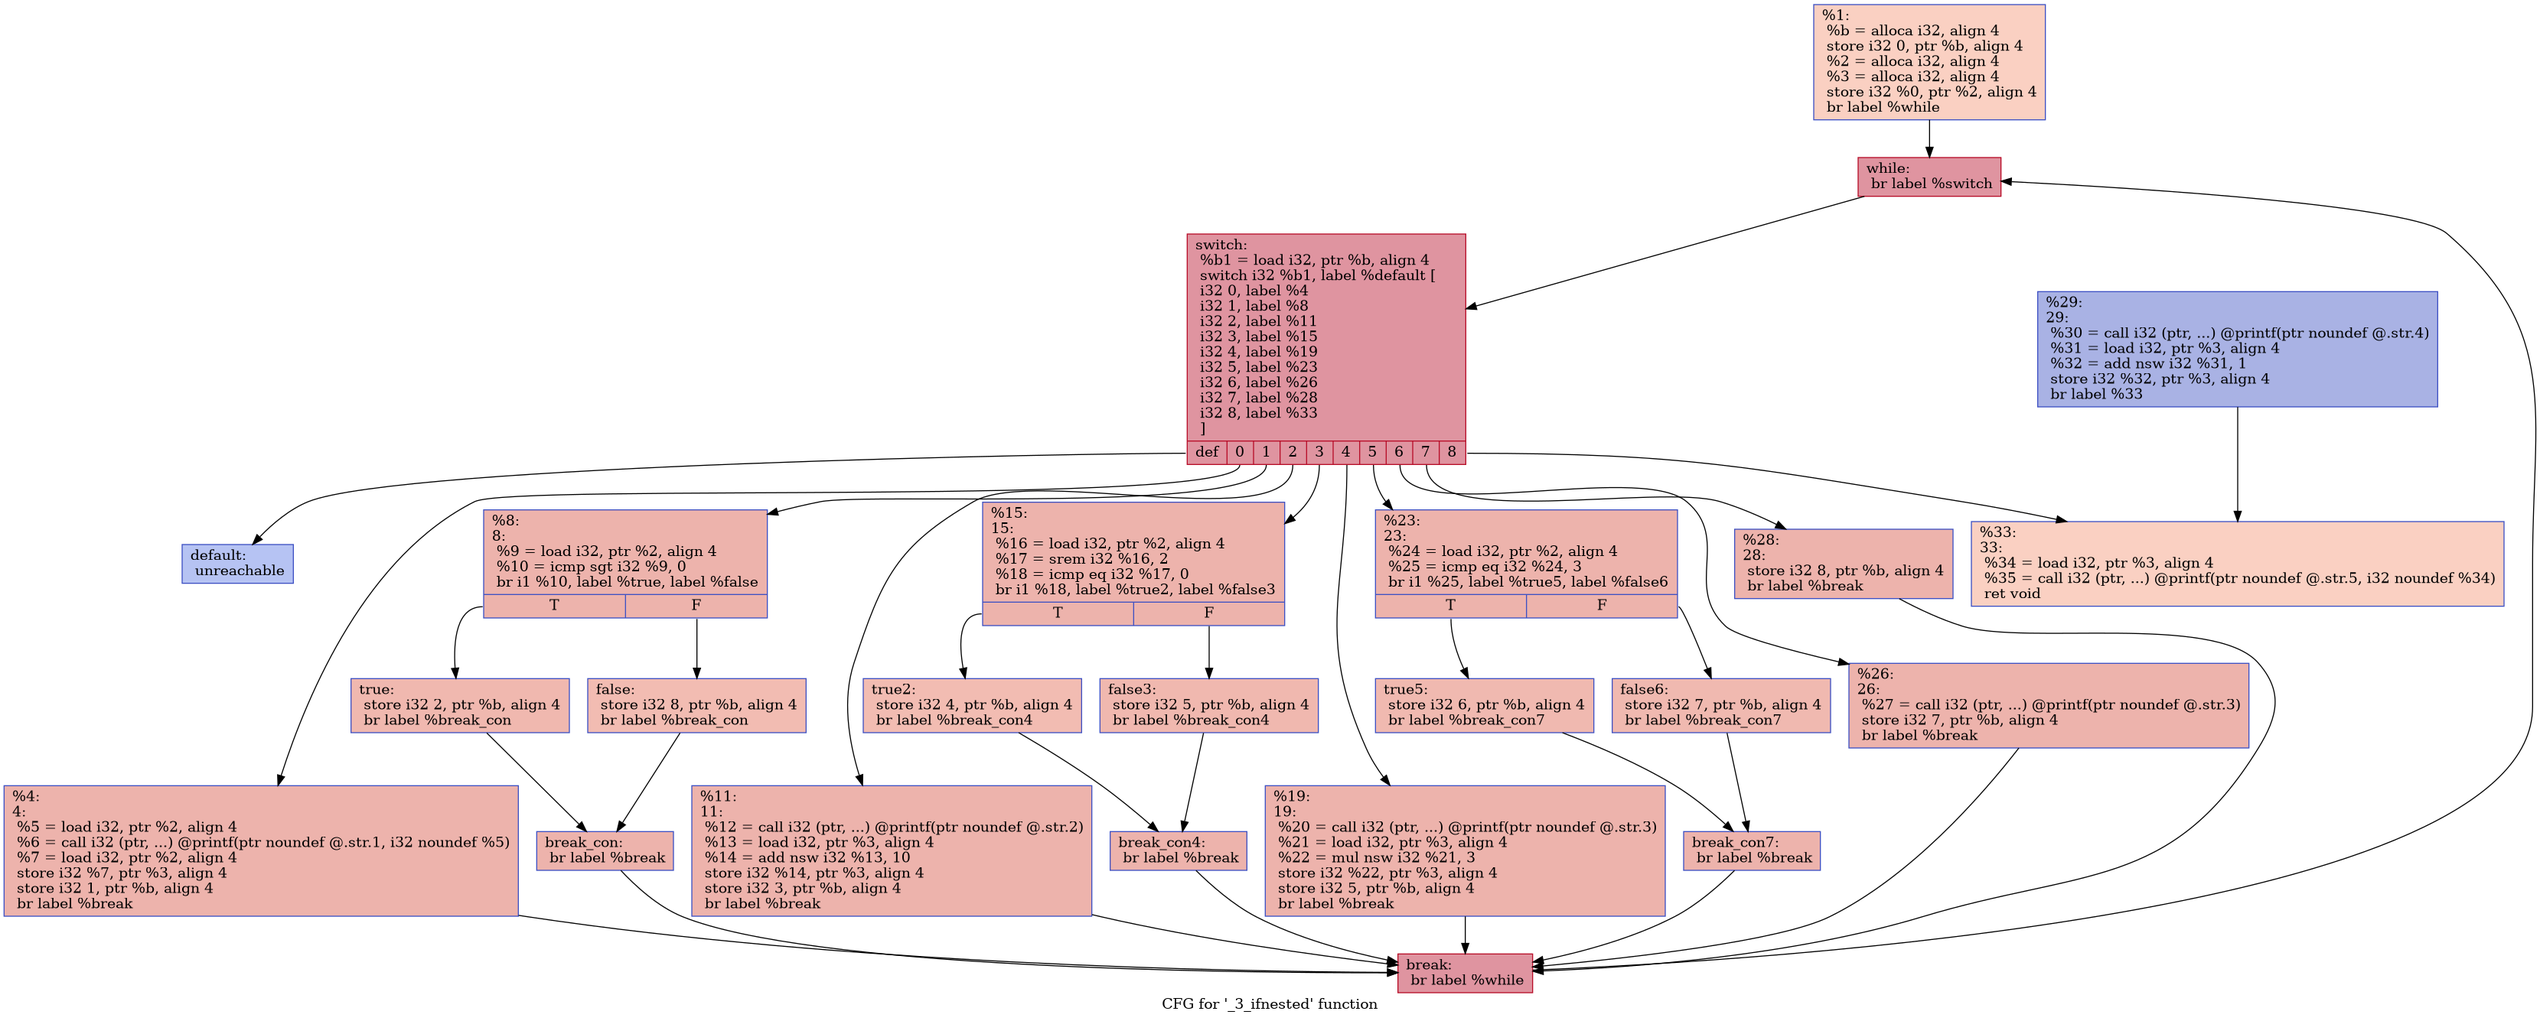
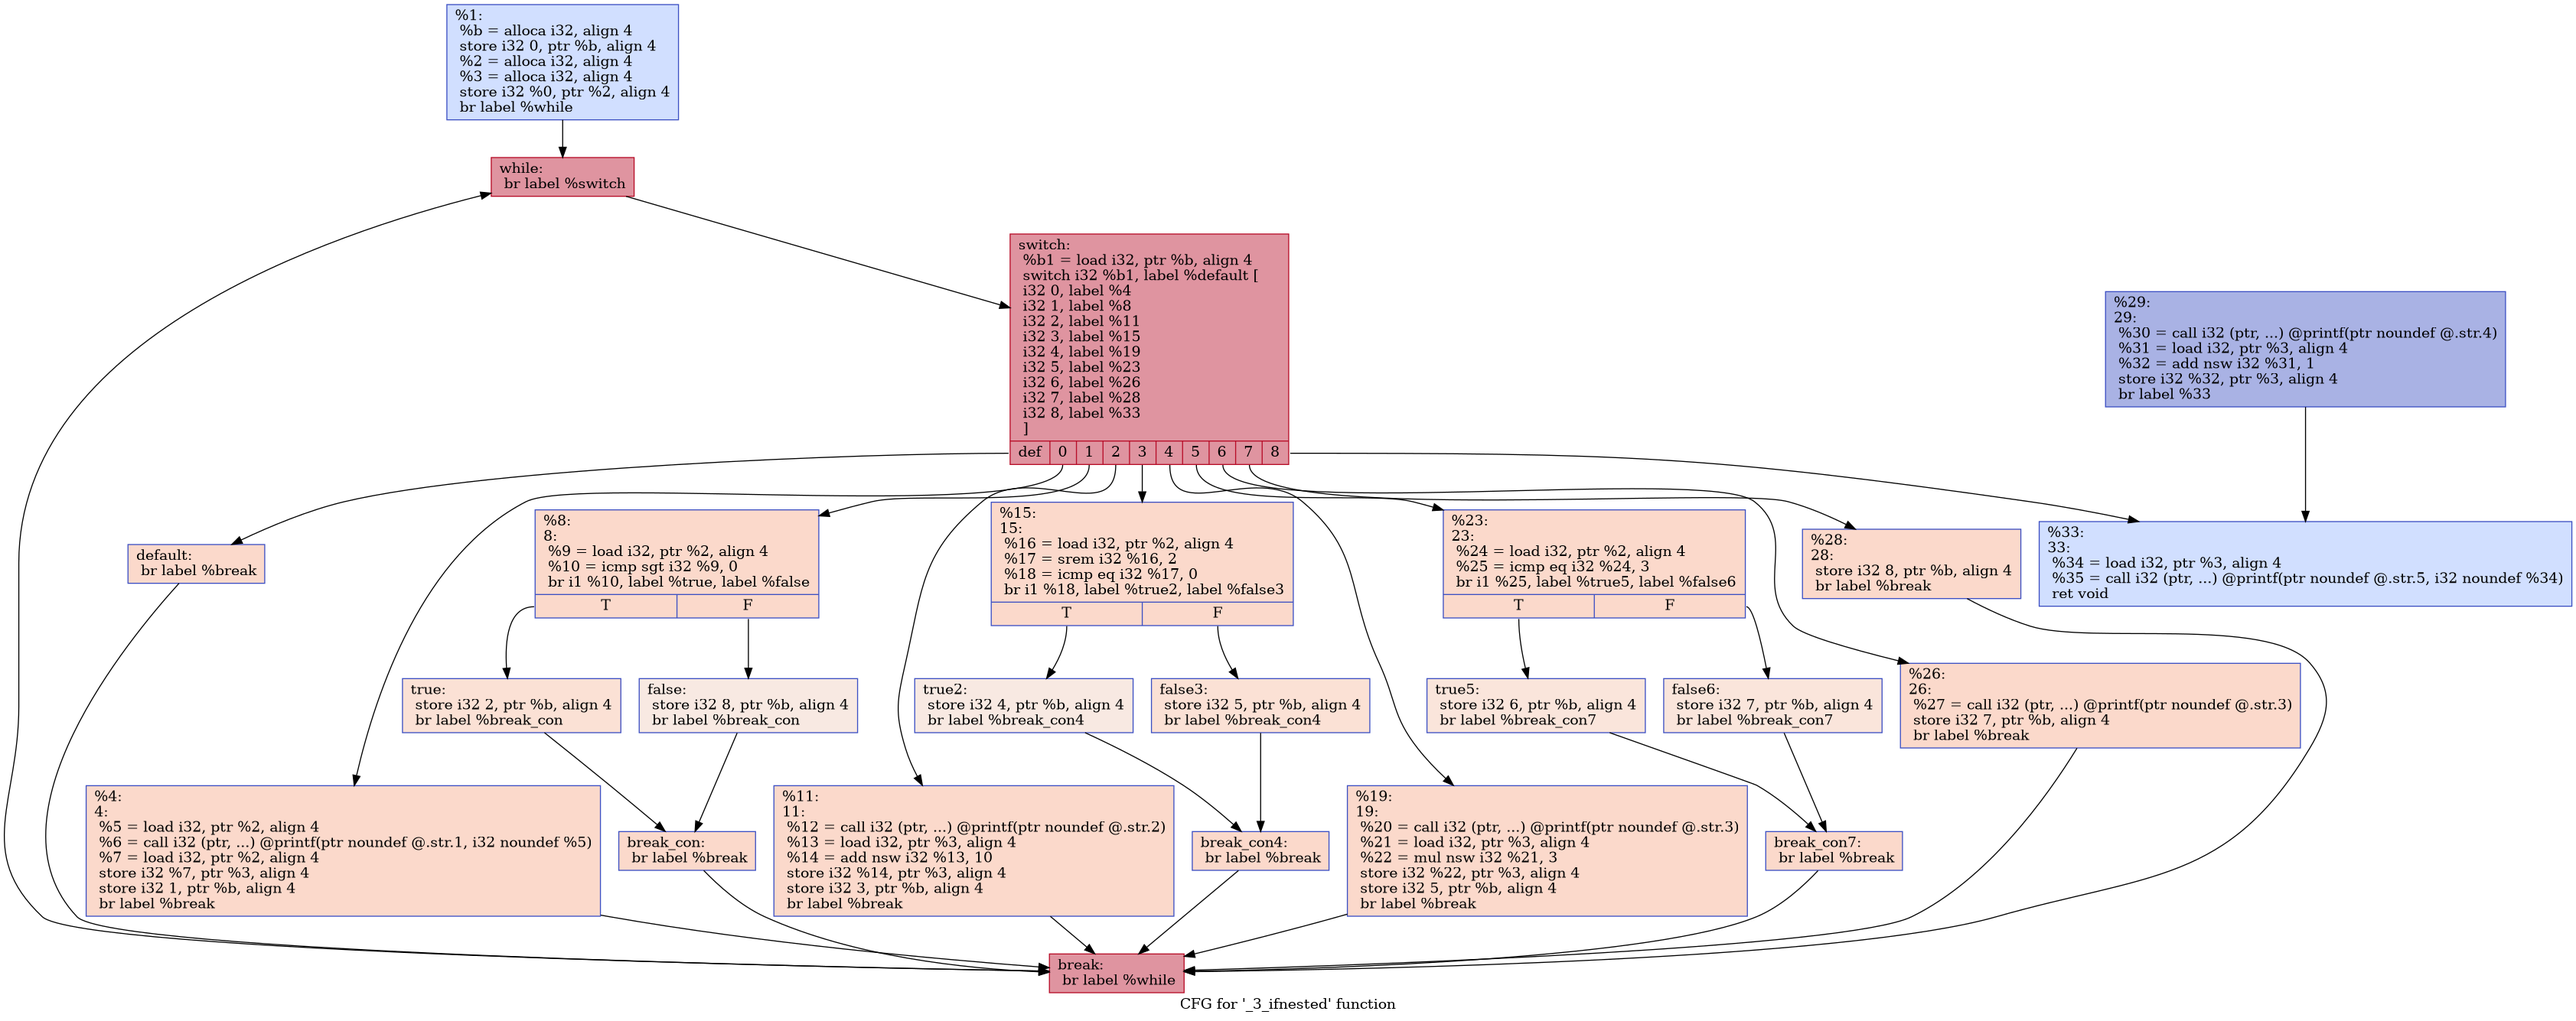
made default block not unreachable, added a break

diff --git a/lib/ControlFlowFlatteningPass.cpp b/lib/ControlFlowFlatteningPass.cpp
@@ -56,8 +56,7 @@ static BasicBlock* createAndBuildDispatcher(Function &F,  SmallVector<BasicBlock
     entryBuilder.CreateStore(entryBuilder.getInt32(0), allocaIns);
 
     BasicBlock *defaultBB = BasicBlock::Create(Ctx, "default", &F);
-    IRBuilder<>(defaultBB).CreateUnreachable();
-
+    IRBuilder<> defaultBuilder(defaultBB);
     
     //creating the dispatcher using 3 blocks: while loop, switch, and break
     //all cases point to the break block, which points back to the loop
@@ -73,6 +72,7 @@ static BasicBlock* createAndBuildDispatcher(Function &F,  SmallVector<BasicBlock
     BasicBlock *breakBB = BasicBlock::Create(Ctx, "break", &F);
     IRBuilder<> breakBuilder(breakBB);
     breakBuilder.CreateBr(whileBB);
+    defaultBuilder.CreateBr(breakBB);
 
     //immediately we create all the cases and makes them point to all the blocks from the vector
     for (size_t i = 0; i < BBtoFlatten.size(); i++) {
